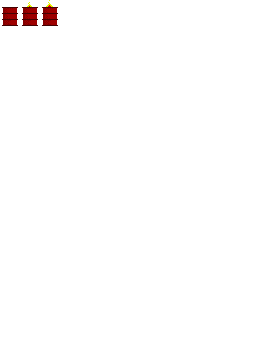
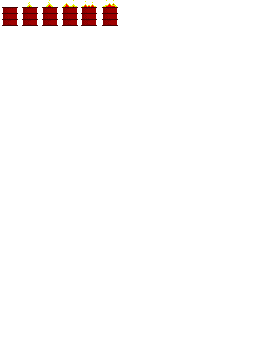
Barrels explosion made more beautiful.

Changed region(s): [[0.2, 0.0, 0.4286, 0.0917]]

diff --git a/locations.py b/locations.py
@@ -151,36 +151,26 @@ locations = {
             'description': 'apartment #1',
             'size': (2500, 1000),
             'hostiles': {
-            	(800.0, 450.0): {
-                    'name': 'demon 2',
-                    'height': 150,
-                    'width': 50,
-                    'health': 1500.0,
-                    'max speed': 2.8,
-            	},
-
-            	(650.0, 650.0): {
+            	(850.0, 650.0): {
                     'name': 'exploding barrel',
                     'height': 150,
                     'width': 50,
                     'health': 500.0,
-                    'max speed': 2.6,
+                    'max speed': 1,
             	},
 
-            	(900.0, 650.0): {
+            	(2100.0, 300.0): {
                     'name': 'exploding barrel',
                     'height': 150,
                     'width': 50,
                     'health': 500.0,
-                    'max speed': 2.6,
+                    'max speed': 1,
             	},
 
-            	(1150.0, 650.0): {
+            	(450.0, 250.0): {
                     'name': 'exploding barrel',
                     'height': 150,
                     'width': 50,
-                    'health': 500.0,
-                    'max speed': 2.6,
             	},
 
               },
@@ -199,7 +189,7 @@ locations = {
                 ((2100, 450), (350, 50), 22),  #22
                 ((2100, 700), (350, 50), 23),  #23
                 ((1400, 925), (100, 25), 28),  #28
-                ((50, 200), (550, 50), 30),  #30
+                ((50, 400), (550, 50), 30),  #30
                 ((600, 200), (1850, 50), 31),  #31
                 ((1950, 750), (150, 50), 33),  #33
                 ((1800, 800), (150, 50), 34),  #34
@@ -310,6 +300,26 @@ locations = {
                         'trigger description': {'make active': [(0, 'self', 0)], 'disappear': False},
                         'item': True,
                         'item name': {'name': 'stash'},
+                        'active': False,
+                        'actions': {0: []},
+                  },
+                    30: {
+                        'sprite elevated': False,
+                        'sprite': 0,
+                        'force render': True,
+                        'ghost': False,
+                        'actors pass through': False,
+                        'actors may grab': True,
+                        'speed': 0.2,
+                        'collideable': False,
+                        'gravity affected': False,
+                        'invisible': False,
+                        'teleport': False,
+                        'teleport description': {'new location': '', 'on touch': False, 'xy': [0, 0]},
+                        'trigger': False,
+                        'trigger description': {'make active': [(0, 'self', 0)], 'disappear': False},
+                        'item': False,
+                        'item name': {'name': ''},
                         'active': False,
                         'actions': {0: []},
                   },

diff --git a/actors_description.py b/actors_description.py
@@ -683,7 +683,7 @@ exploding_barrel = {
         'slash': 0.,
         'pierce': 0.1,
         'smash': 0.2,
-        'fire': 2
+        'fire': 5
     },
     'height': 150,  # For level editor use only
     'width': 50,  # For level editor use only
@@ -702,21 +702,21 @@ exploding_barrel = {
             },
         'almost explode right': {
                 'repeat': True,
-                'sequence': (1,2,1,2), 'speed': 10,
+                'sequence': (1,2,1,2,1,2,1,2,1,2,1,2), 'speed': 10,
                 'activity at frames': {},
                 'repeat from frame': 0
             },
         'almost explode left': {
                 'repeat': True,
-                'sequence': (1,2,1,2), 'speed': 10,
+                'sequence': (1,2,1,2,1,2,1,2,1,2,1,2), 'speed': 10,
                 'activity at frames': {},
                 'repeat from frame': 0
             },
         'explosion right': {
                 'repeat': True,
-                'sequence': (1,2,1,2,1,2,1,2), 'speed': 1,
+                'sequence': (3,4,5,3,4,5,3,4,5,3,4,5), 'speed': 1,
                 'activity at frames': {
-                    7: {
+                    11: {
                         'sound': True,
                         'demolishers set number': 0,
                         'demolisher': True
@@ -726,9 +726,9 @@ exploding_barrel = {
             },
         'explosion left': {
                 'repeat': True,
-                'sequence': (1,2,1,2,1,2,1,2), 'speed': 1,
+                'sequence': (3,4,5,3,4,5,3,4,5,3,4,5), 'speed': 1,
                 'activity at frames': {
-                    7: {
+                    11: {
                         'sound': True,
                         'demolishers set number': 0,
                         'demolisher': True

diff --git a/actor.py b/actor.py
@@ -540,7 +540,8 @@ class Actor(Entity):
                             self.ai_input_left_arrow = False
                             self.ai_input_right_arrow = False
         elif self.think_type == 'exploding barrel':
-            ...
+            if self.fall_speed > 20:  # barrel explodes if it falls from the height of 4 blocks (50 pixels * 4)
+                self.set_state('almost explode')
             # if self.get_state() == 'dying':
             #     print(f'[think] A barrel consider to be dying.')
             #     self.set_state('almost explode')
@@ -1036,8 +1037,9 @@ class Actor(Entity):
                     self.is_abort_jump = True
         elif self.get_state() == 'almost explode':
             # print(f'[state machine] {self.name} is going to explode.')
-            print(f'[state machine] {self.name} state: *ALMOST EXPLODE*.')
-            self.set_state('explosion')
+            # print(f'[state machine] {self.name} state: *ALMOST EXPLODE*.')
+            if self.animation_sequence_done:
+                self.set_state('explosion')
         elif self.get_state() == 'explosion':
             if self.animation_sequence_done:
                 print(f'[state machine] {self.name} state: *EXPLOSION*.')

diff --git a/weapons.py b/weapons.py
@@ -539,8 +539,8 @@ pistol = {
     'animation speed modifier': 1.,  # 0 < x < 1: speed animation up, x > 1: slow down.
     'leave particles': False,
     'droppable': True,
-    'need ammo': True,
-    'ammo': 20,
+    # 'need ammo': True,
+    # 'ammo': 20,
     'reach': 200,
     'demolishers': (
         ({
@@ -554,9 +554,9 @@ pistol = {
             'bounce': False, 'bounce factor': 0.,
             'attack type': ('slash', 'smash', 'pierce'),
              'damage': {
-                 'fire': 5,
+                 'fire': 25,
                  'smash': 10,
-                 'pierce': 10,
+                 'pierce': 100,
              },
             # 'aftermath': 'explode'
             'aftermath': 'disappear'

diff --git a/entity.py b/entity.py
@@ -776,7 +776,7 @@ class Entity(object):
     def get_damage(self, damage, damage_multiplier):
         # if self.dead:
         #     return
-        print(f'[entity.get_damage] incoming damage dealt to {self.name} | {self.stats["health"]=}')
+        # print(f'[entity.get_damage] incoming damage dealt to {self.name} | {self.stats["health"]=}')
         self.total_damage_has_got = 0
         for damage_type in damage:
             d = damage[damage_type] * self.resistances[damage_type] * damage_multiplier

diff --git a/graphics.py b/graphics.py
@@ -381,7 +381,7 @@ tmp_sprites = pygame.image.load('img/animations/exploding_barrel.png').convert_a
 screen.convert_alpha(tmp_sprites)
 load_single_frame(tmp_sprites, ((260,150,20,18),), name + ' avatar')
 load_single_frame(tmp_sprites, ((260,150,20,18),), name + ' avatar front')
-load_all_frames(tmp_sprites, 2, name, 20, 30, 8)
+load_all_frames(tmp_sprites, 5, name, 20, 30, 8)
 
 # ___...---=== DEMON 2 ===---...___
 name = 'demon 2'

diff --git a/world.py b/world.py
@@ -1790,7 +1790,8 @@ class World(object):
                         return
 
         self.change_location({'new location': 'entrance',
-                              'xy': (100, 100)
+                              'xy': (100, locations['entrance']['size'][1] - 200)
+                              # 'xy': (100, 100)
                               }
                              )
         # pygame.quit()
